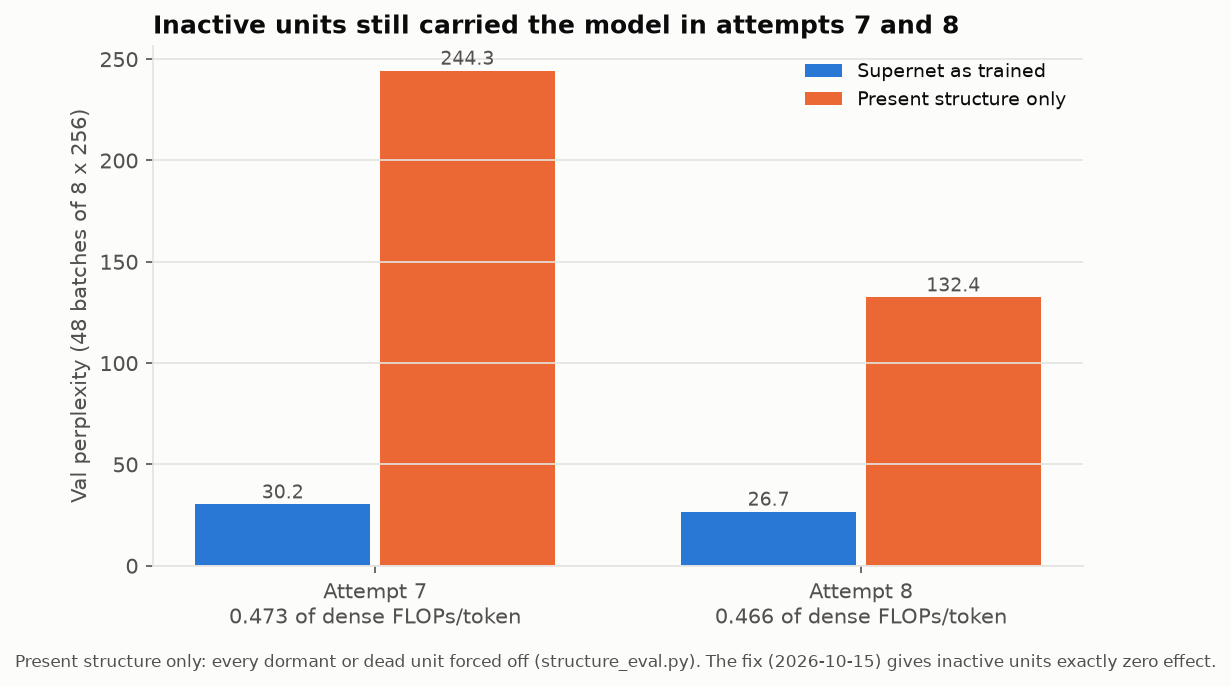
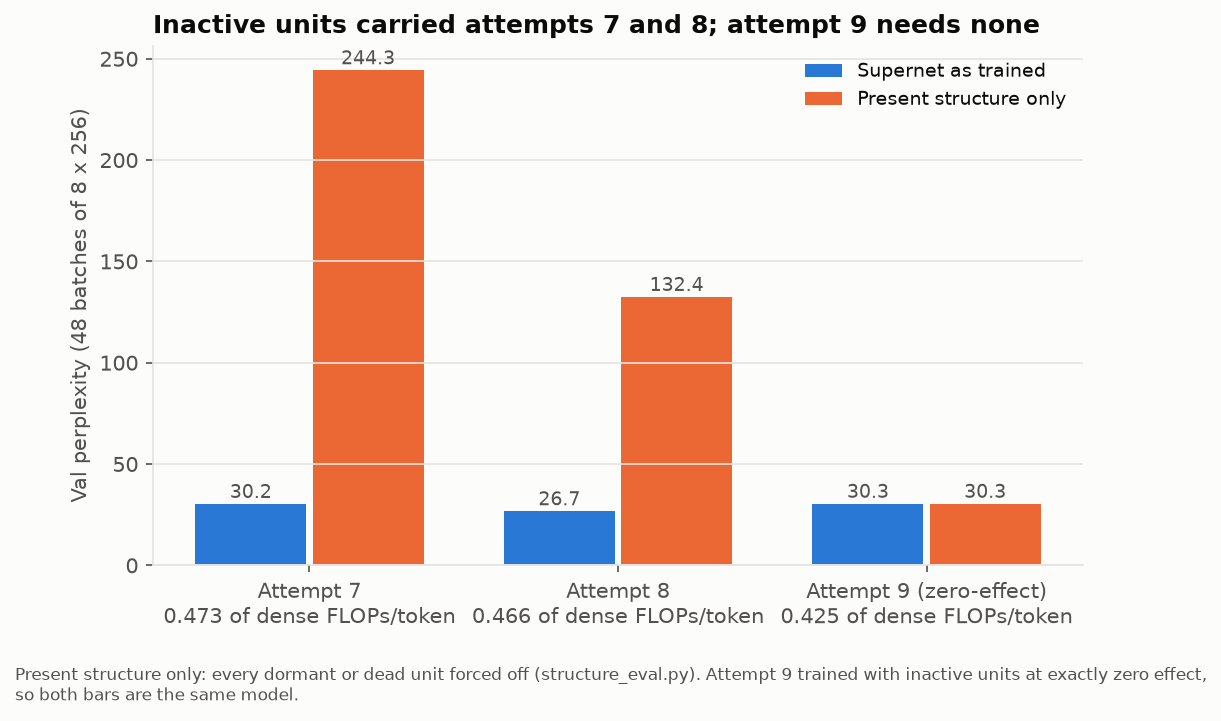
Update the README figures for attempt 9
Add a chart of attempt 9's present-structure val ppl against dense 768. It
also draws the matched-compute dense controls once their logs are in
results/. The unit-state and final-structure charts now cover attempt 9,
and the supernet-against-present chart has an attempt-9 pair. Both of its
values are 30.34 (structure_eval.py), because inactive units have zero
effect.

diff --git a/scripts/make_figures.py b/scripts/make_figures.py
@@ -45,13 +45,18 @@ plt.rcParams.update({
 DPI = 150
 SIZE = (8, 4.5)
 
-# Phase 2 v8 config (Hub train_config.json / config.json of
-# sbartlett97/sot-phase2-wikitext103-heuristic-seed42-tc768d013-v8-tailfreeze).
+# Phase 2 config of attempts 8 and 9 (Hub train_config.json / config.json of
+# sbartlett97/sot-phase2-wikitext103-heuristic-seed42-tc768d013-v8-tailfreeze and -v9-zeroeffect).
 V8_SHAPE = Shape.from_config(SimpleNamespace(
     d_model=768, max_heads=12, max_ffn_dim=3072, ffn_groups=128, vocab_size=50257,
     max_position_embeddings=256, max_layers=12), seq_len=256)
 V8_SEED, V8_SEED_FRACTION, V8_DEATH_RAMP, V8_MAX_STEPS = 42, 0.33, 250, 10000
 V8_LAST_ALLOWED_CHECK = 8500  # RESEARCH_LOG 2026-10-14 "Attempt 8": checks 8750-9750 are frozen
+# Attempt 9 uses the same shape, seed, ramps and freeze schedule.
+PHASE2 = {"v8": ("phase2_v8_tailfreeze", "Attempt 8"), "v9": ("phase2_v9_zeroeffect", "Attempt 9")}
+# Matched-compute dense controls (train.py, attempt-9 settings). Drawn when their logs exist.
+DENSE_CONTROLS = [("dense_c425_d768l4", "Dense 768 wide, 4 layers (0.424 FLOPs)"),
+                  ("dense_c425_d512l9", "Dense 512 wide, 9 layers (0.421 FLOPs)")]
 
 
 def save(fig, name: str) -> None:
@@ -117,14 +122,14 @@ def fig_phase2_val_ppl() -> None:
     save(fig, "phase2_val_ppl.png")
 
 
-def v8_replay() -> Replay:
-    events = json.loads((RESULTS / "phase2_v8_tailfreeze" / "events.json").read_text())
+def replay_of(run: str) -> Replay:
+    events = json.loads((RESULTS / PHASE2[run][0] / "events.json").read_text())
     return Replay(V8_SHAPE, V8_SEED, V8_SEED_FRACTION, events, V8_DEATH_RAMP)
 
 
-def fig_phase2_structure_v8() -> None:
-    replay = v8_replay()
-    growth = json.loads((RESULTS / "phase2_v8_tailfreeze" / "growth_log.json").read_text())
+def fig_phase2_structure(run: str) -> None:
+    replay = replay_of(run)
+    growth = json.loads((RESULTS / PHASE2[run][0] / "growth_log.json").read_text())
     steps = [0] + [g["step"] for g in growth]
     kinds = [("layer", "Layers (of 12)"), ("head", "Heads (of 144)"), ("ffn_group", "FFN groups (of 1536)")]
     states = [("alive", "Alive", SERIES[0]), ("dormant", "Dormant", NEUTRAL), ("dead", "Dead", SERIES[1])]
@@ -150,17 +155,20 @@ def fig_phase2_structure_v8() -> None:
         ax.set_ylim(bottom=0)
     axes[0].set_ylabel("Units")
     axes[0].legend(loc="center right", fontsize=9)
-    fig.suptitle("Attempt 8: unit states during training", x=0.01, ha="left", fontweight="bold", fontsize=12)
+    fig.suptitle(f"{PHASE2[run][1]}: unit states during training", x=0.01, ha="left", fontweight="bold", fontsize=12)
     fig.text(0.01, -0.06, "Grey band: no births or deaths after the check at step 8500 (LR below 5% of peak). "
-             "Alive = protected + mature. Rebuilt from events.json with compute.Replay.", fontsize=8, color=INK_2)
+             "Alive = protected + mature. Rebuilt from events.json with compute.Replay.\n"
+             "Heads and FFN groups inside a dead or dormant layer count by their own state here, but they have no effect.",
+             fontsize=8, color=INK_2)
     fig.tight_layout()
-    save(fig, "phase2_structure_v8.png")
+    save(fig, f"phase2_structure_{run}.png")
 
 
-def fig_phase2_final_structure_v8() -> None:
-    structure = {l["index"]: l for l in v8_replay().structure(V8_MAX_STEPS)}
+def fig_phase2_final_structure(run: str) -> None:
+    structure = {l["index"]: l for l in replay_of(run).structure(V8_MAX_STEPS)}
     # Check against the saved structure_eval result.
-    saved = json.loads((RESULTS / "compute" / "v8_structure_eval.json").read_text())["structure"]
+    ev = json.loads((RESULTS / "compute" / f"{run}_structure_eval.json").read_text())
+    saved = ev["structure"]
     assert [structure[l["index"]] for l in saved] == saved
     layers = list(range(V8_SHAPE.max_layers))
     heads = [structure[i]["heads"] / V8_SHAPE.max_heads if i in structure else 0 for i in layers]
@@ -179,11 +187,49 @@ def fig_phase2_final_structure_v8() -> None:
     ax.set_xlabel("Layer")
     ax.set_ylabel("Fraction of the layer present")
     ax.set_ylim(0, 1)
-    ax.set_title("Attempt 8: final present structure (step 10000)")
-    fig.text(0.01, -0.04, f"9 of 12 layers present; 0.466 of dense FLOPs/token, 0.472 of dense params "
-             "(results/compute/v8_structure_eval.json). Bar labels are counts.", fontsize=8, color=INK_2)
-    ax.legend(loc="upper left", fontsize=9)
-    save(fig, "phase2_final_structure_v8.png")
+    ax.set_title(f"{PHASE2[run][1]}: final present structure (step 10000)")
+    fig.text(0.01, -0.04, f"{len(structure)} of 12 layers present; {ev['flops_fraction_of_dense']:.3f} of dense FLOPs/token, "
+             f"{ev['params_fraction_of_dense']:.3f} of dense params (results/compute/{run}_structure_eval.json). "
+             "Bar labels are counts.", fontsize=8, color=INK_2)
+    ax.legend(loc="upper right", fontsize=9)
+    save(fig, f"phase2_final_structure_{run}.png")
+
+
+def fig_phase2_present() -> None:
+    """Attempt 9 (present structure: inactive units have zero effect) against
+    dense 768 and the matched-compute dense controls. Same method for every
+    curve: training-time val ppl on the fixed val batches of evaluate_loss."""
+    lo, hi = 20, 60
+    fig, ax = plt.subplots(figsize=SIZE)
+    curves = [(PHASE2["v9"][0], "Attempt 9, present structure (0.425 FLOPs)", SERIES[0], "-")]
+    curves += [(run, label, color, "-") for (run, label), color in zip(DENSE_CONTROLS, [SERIES[1], SERIES[2]])
+               if (RESULTS / run / "metrics.json").exists()]
+    for run, label, color, style in curves:
+        x, y = zip(*[(s, v) for s, v in zip(*val_curve(run)) if v <= hi])  # points above the axis are left out, not clipped
+        ax.plot(x, y, color=color, linestyle=style, label=label, marker="o", markersize=3)
+        ax.annotate(f"{y[-1]:.2f}", (x[-1], y[-1]), xytext=(6, 0), textcoords="offset points",
+                    va="center", fontsize=9, color=INK_2)
+    x, y = dense768_curve()
+    if x:
+        x, y = zip(*[(s, v) for s, v in zip(x, y) if v <= hi])
+        ax.plot(x, y, color=NEUTRAL, linestyle="--", linewidth=1.5,
+                label="Phase 1 dense 768 (1.0 FLOPs)")
+        ax.annotate(f"{y[-1]:.2f}", (x[-1], y[-1]), xytext=(6, -6), textcoords="offset points",
+                    va="center", fontsize=9, color=INK_2)
+    else:
+        ax.axhline(24.30, color=NEUTRAL, linestyle="--", linewidth=1.5, label="Phase 1 dense 768 (1.0 FLOPs): 24.30")
+    ax.set_ylim(lo, hi)
+    ax.set_xlim(0, V8_MAX_STEPS + 900)
+    ax.set_xlabel("Training step")
+    ax.set_ylabel("Val perplexity")
+    ax.set_title("Attempt 9 against dense models (WikiText-103)")
+    missing = len(DENSE_CONTROLS) - (len(curves) - 1)
+    note = "" if not missing else " The matched-compute dense controls are still training."
+    fig.text(0.01, -0.04, "Training-time val ppl, the same fixed val batches for every curve. FLOPs: forward FLOPs/token "
+             f"of the final model, as a fraction of dense 768.\nPoints above {hi} (steps before about 2000) are not shown.{note}",
+             fontsize=8, color=INK_2)
+    ax.legend(loc="upper right", fontsize=9)
+    save(fig, "phase2_present_val_ppl.png")
 
 
 def fig_phase1_ppl() -> None:
@@ -228,7 +274,7 @@ def fig_phase1_ppl() -> None:
 
 
 def fig_compute() -> None:
-    runs = [("v7", "Attempt 7"), ("v8", "Attempt 8")]
+    runs = [("v7", "Attempt 7"), ("v8", "Attempt 8"), ("v9", "Attempt 9 (zero-effect)")]
     data = [json.loads((RESULTS / "compute" / f"{r}_structure_eval.json").read_text()) for r, _ in runs]
     fig, ax = plt.subplots(figsize=SIZE)
     w = 0.36
@@ -241,9 +287,10 @@ def fig_compute() -> None:
     ax.set_xticks(range(len(runs)))
     ax.set_xticklabels([f"{l}\n{d['flops_fraction_of_dense']:.3f} of dense FLOPs/token" for (_, l), d in zip(runs, data)])
     ax.set_ylabel("Val perplexity (48 batches of 8 x 256)")
-    ax.set_title("Inactive units still carried the model in attempts 7 and 8")
-    fig.text(0.01, -0.04, "Present structure only: every dormant or dead unit forced off (structure_eval.py). "
-             "The fix (2026-10-15) gives inactive units exactly zero effect.", fontsize=8, color=INK_2)
+    ax.set_title("Inactive units carried attempts 7 and 8; attempt 9 needs none")
+    fig.text(0.01, -0.09, "Present structure only: every dormant or dead unit forced off (structure_eval.py). "
+             "Attempt 9 trained with inactive units at exactly zero effect,\nso both bars are the same model.",
+             fontsize=8, color=INK_2)
     ax.legend(loc="upper right", fontsize=9)
     ax.grid(axis="x", visible=False)
     save(fig, "compute_present_vs_supernet.png")
@@ -252,7 +299,9 @@ def fig_compute() -> None:
 if __name__ == "__main__":
     assert len(unit_order(V8_SHAPE)) == 12 + 144 + 1536
     fig_phase2_val_ppl()
-    fig_phase2_structure_v8()
-    fig_phase2_final_structure_v8()
+    fig_phase2_present()
+    for run in PHASE2:
+        fig_phase2_structure(run)
+        fig_phase2_final_structure(run)
     fig_phase1_ppl()
     fig_compute()

diff --git a/README.md b/README.md
@@ -39,31 +39,36 @@ on the gate-weighted cost pushes gates down.
 
 Training starts with 33% of units alive. Every 250 steps a controller
 gives birth to promising dormant units and kills alive units that fall
-behind. Eight full runs on WikiText-103 (d_model 768) fixed the controller
+behind. Nine full runs on WikiText-103 (d_model 768) fixed the controller
 step by step.
 
 ![Phase 2 supernet val perplexity, attempts 5-8](docs/figures/phase2_val_ppl.png)
 
-![Attempt 8 unit states during training](docs/figures/phase2_structure_v8.png)
-
-Attempt 8 ends with 9 of 12 layers and a present structure of 0.466 of
-dense FLOPs per token:
-
-![Attempt 8 final structure per layer](docs/figures/phase2_final_structure_v8.png)
-
 **But the curves above are supernet numbers.** In attempts 1-8, dormant
 and dead units still had small non-zero gates, and they still trained.
 With every unit outside the present structure forced off, attempt 8 goes
-from 26.7 to 132 val ppl:
+from 26.7 to 132 val ppl. Attempt 9 runs on code that gives dormant and
+dead units exactly zero effect and zero gradient (2026-10-15,
+`tests/zero_effect_test.py`). Its two values are the same:
 
 ![Supernet against present structure](docs/figures/compute_present_vs_supernet.png)
 
-The code now gives dormant and dead units exactly zero effect and zero
-gradient (2026-10-15, `tests/zero_effect_test.py`). Attempt 9 is the
-first run on this code. Its val ppl is the val ppl of the present
-structure alone: **30.61 at 0.425 of dense FLOPs per token** (8 layers,
-36 heads, 357 FFN groups). Dense 768 gets 24.30 on the same method. A
-dense model at matched compute is the next test. See "Where next" in
+So the val ppl of attempt 9 is the val ppl of the present structure alone:
+**30.61 at 0.425 of dense FLOPs per token**. Dense 768 gets 24.30 on the
+same method, at 1.0 of the FLOPs. Dense models at matched compute (0.42
+of the FLOPs) are the next test:
+
+![Attempt 9 against dense models](docs/figures/phase2_present_val_ppl.png)
+
+![Attempt 9 unit states during training](docs/figures/phase2_structure_v9.png)
+
+Attempt 9 ends with 8 of 12 layers, 36 heads and 357 FFN groups:
+
+![Attempt 9 final structure per layer](docs/figures/phase2_final_structure_v9.png)
+
+Heads took most early births because the controller ranked raw scores,
+and a head is about 4x the size of an FFN group. `--birth_score_norm
+flops` now ranks by score per FLOP. See "Where next" in
 [`RESEARCH_LOG.md`](RESEARCH_LOG.md).
 
 ### Text samples

diff --git a/results/README.md b/results/README.md
@@ -48,9 +48,10 @@ us nothing at this scale.
 
 ## Compute accounting (`compute/`)
 
-- `v7_structure_eval.json`, `v8_structure_eval.json`: output of
-  `structure_eval.py`. Val ppl as trained and with the present structure
-  only, plus FLOPs and parameters.
+- `v7_structure_eval.json`, `v8_structure_eval.json`, `v9_structure_eval.json`:
+  output of `structure_eval.py`. Val ppl as trained and with the present
+  structure only, plus FLOPs and parameters. For attempt 9 the two values
+  are the same (30.34), because its inactive units have zero effect.
 - `dormant_split.py`, `dead_split.py`: which inactive units carry the gap.
 - `present_only_sample.py`: text from attempt 8 with only its present
   structure (see `docs/samples.md`).
